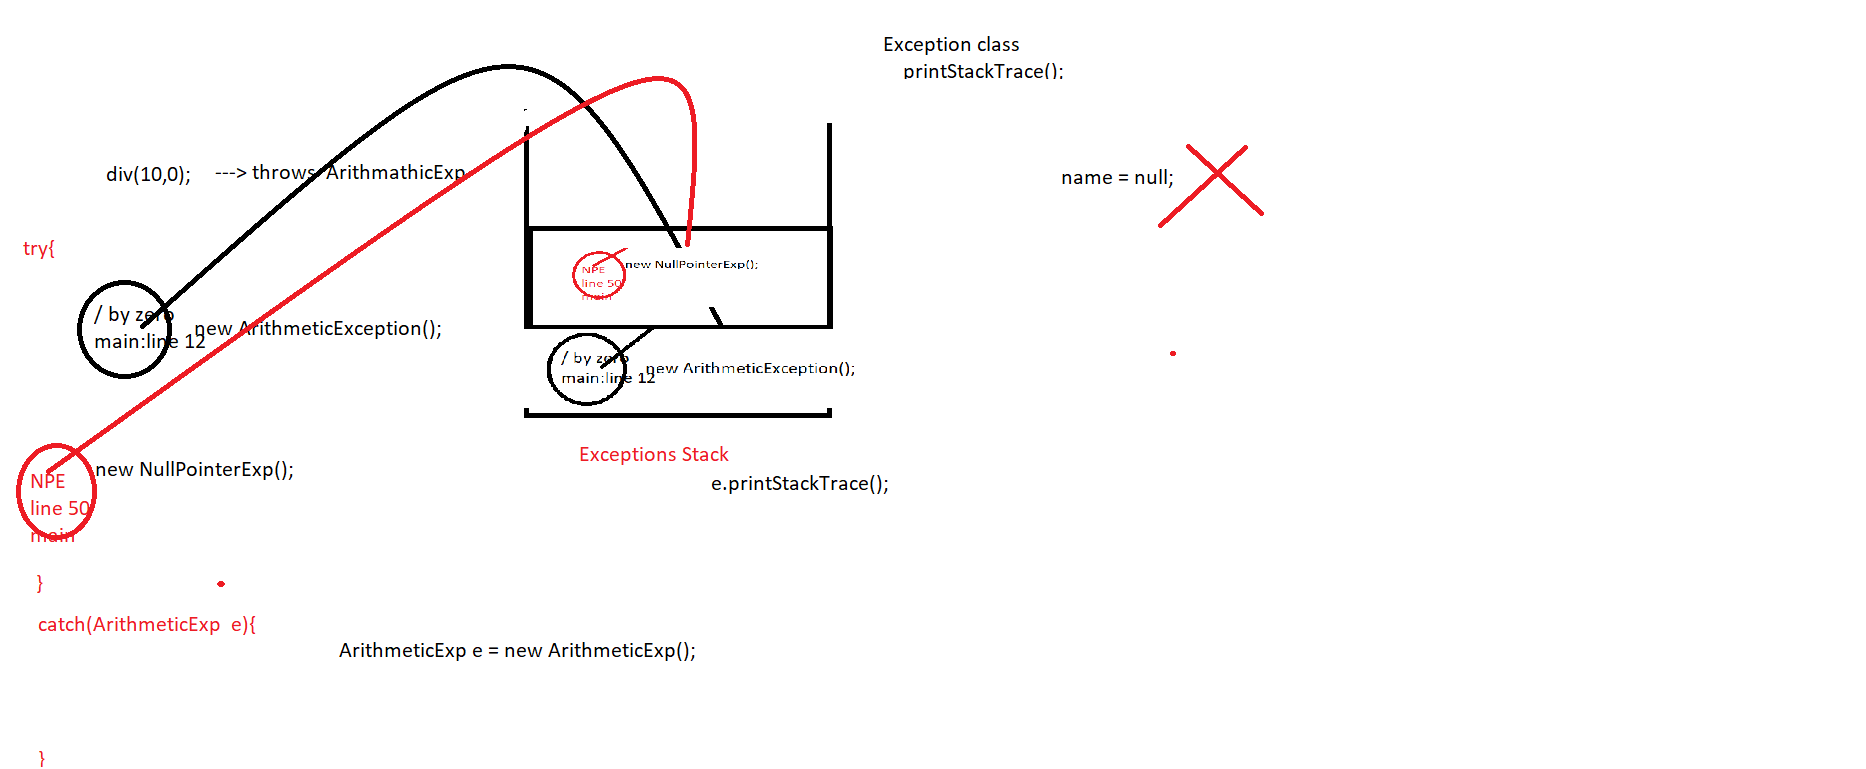
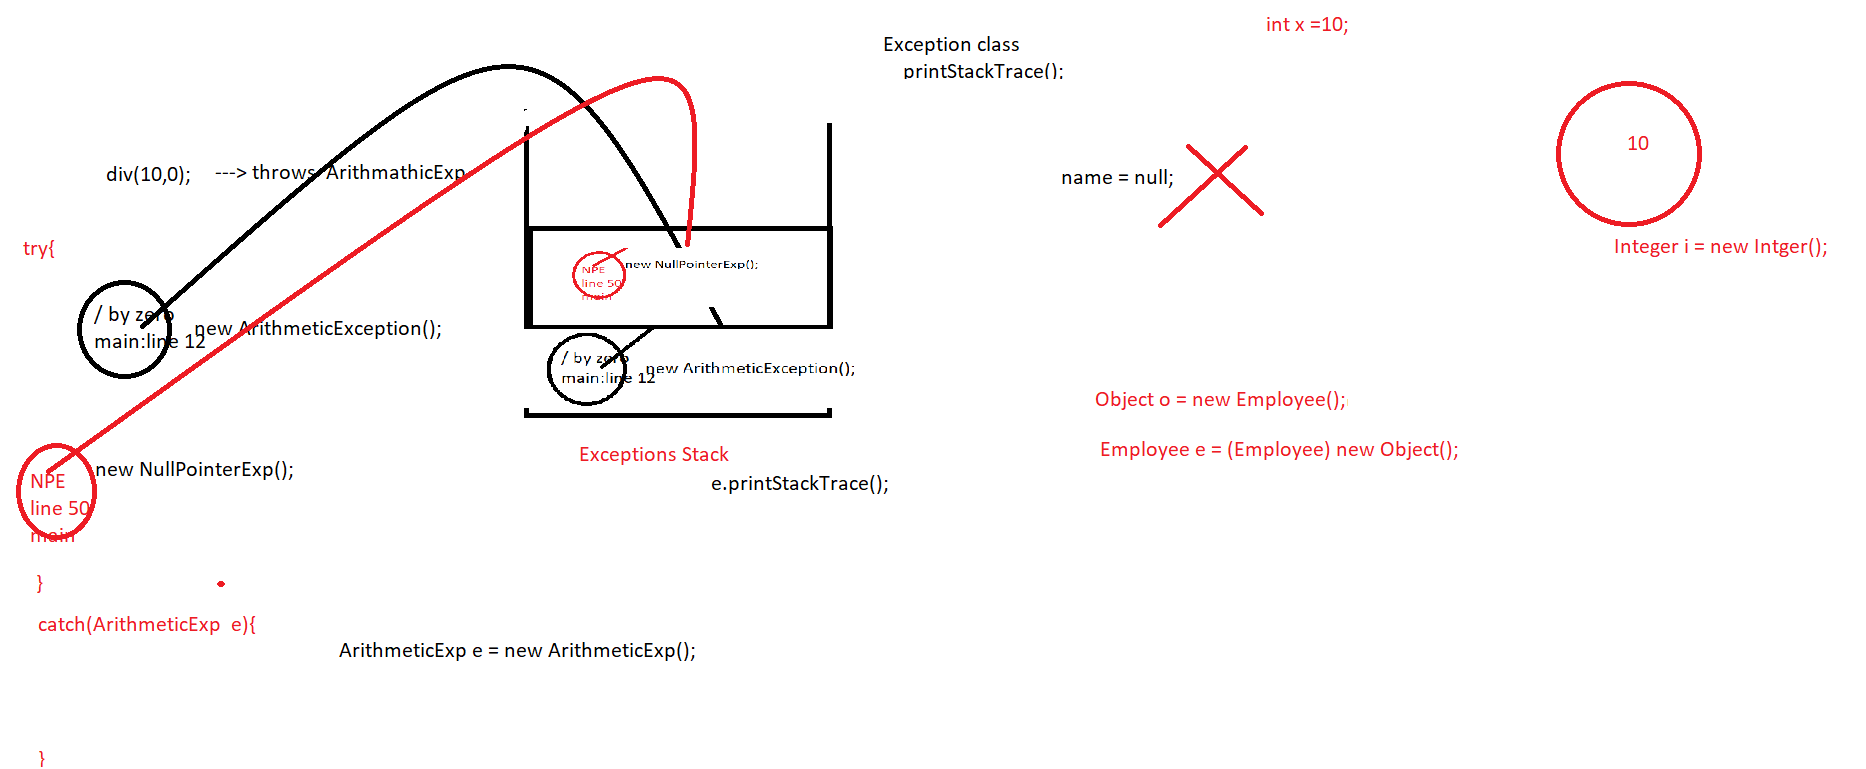
CheckedExp , UserDefinedExp demos,notes

diff --git a/Java_Day4/ExceptionsDemo/src/user/exp/BankCustomers.java b/Java_Day4/ExceptionsDemo/src/user/exp/BankCustomers.java
@@ -1,0 +1,36 @@
+package user.exp;
+
+public class BankCustomers {
+
+	public static void main(String[] args) {
+
+		int acno[] = {101,102,103,104,105};
+		String names[] = {"king","smith","tom","javeed","ford"};
+		double  balance[] = {5000.0,60.0,4000.0,70.0,9000.0};
+		
+		
+		for (int i = 0; i < acno.length; i++) {
+			
+			System.out.println(acno[i] +"  "+names[i] +"       "+balance[i]);
+			
+			if(balance[i] < 1000) {
+				
+				// raise exception
+				try {
+					throw new  LowBalanceException("Balance is Low");
+				}
+				catch(LowBalanceException e) {
+					
+					System.err.println(names[i]+"  your balance is low , deposit some amount");
+					
+				}
+				
+			}
+			
+			
+		}
+		
+		
+	}
+
+}

diff --git a/Java_Day4/ExceptionsDemo/src/checked/exp/ReadInputs.java b/Java_Day4/ExceptionsDemo/src/checked/exp/ReadInputs.java
@@ -1,0 +1,37 @@
+package checked.exp;
+
+import java.io.BufferedReader;
+import java.io.IOException;
+import java.io.InputStreamReader;
+
+public class ReadInputs {
+
+	public static void main(String[] args) {
+
+
+	BufferedReader  br = new BufferedReader(new InputStreamReader(System.in));
+		
+				try {
+					System.out.println("Enter name");
+					
+				String  name =	br.readLine();
+				
+				System.out.println("Enter amount");
+				
+				String  s1 =	br.readLine(); // 500
+				
+				int  amount =	Integer.parseInt(s1);
+				
+				System.out.println("name : "+name);
+				System.out.println(amount + 100);
+				
+				
+				} catch (IOException e) {
+					
+					e.printStackTrace();
+				}
+		
+
+	}
+
+}

diff --git a/Java_Day4/ExceptionsDemo/src/checked/exp/CheckedExpDemo.java b/Java_Day4/ExceptionsDemo/src/checked/exp/CheckedExpDemo.java
@@ -1,0 +1,22 @@
+package checked.exp;
+
+public class CheckedExpDemo {
+
+	public static void main(String[] args) {
+
+
+			System.out.println("Hello friends");
+			
+				try {
+					Thread.sleep(2000);
+				} catch (InterruptedException e) {
+					
+					e.printStackTrace();
+				}  // it pause for 2sec
+			
+			System.out.println("Thank you");
+		
+		
+	}
+
+}

diff --git a/Java_Day4/ExceptionsDemo/src/user/exp/Test.java b/Java_Day4/ExceptionsDemo/src/user/exp/Test.java
@@ -1,0 +1,21 @@
+package user.exp;
+
+public class Test {
+	
+		
+			public static void main(String[] args) {
+				
+					try {
+				throw	new MyException();
+					}
+					catch (MyException e) {
+
+							e.printStackTrace();
+							System.err.println("User exp : MyException handled");
+						
+					}
+				
+			}
+	
+
+}

diff --git a/Java_Day4/ExceptionsDemo/src/user/exp/LowBalanceException.java b/Java_Day4/ExceptionsDemo/src/user/exp/LowBalanceException.java
@@ -1,0 +1,12 @@
+package user.exp;
+
+public class LowBalanceException extends  Exception{ 
+	
+		public LowBalanceException(String msg) {  // optional
+			
+				super(msg);
+			
+		}
+	
+
+}

diff --git a/Java_Day4/ExceptionsDemo/src/user/exp/MyException.java b/Java_Day4/ExceptionsDemo/src/user/exp/MyException.java
@@ -1,0 +1,8 @@
+package user.exp;
+
+public class MyException extends Exception{ // RuntimeException
+
+}
+
+
+//
